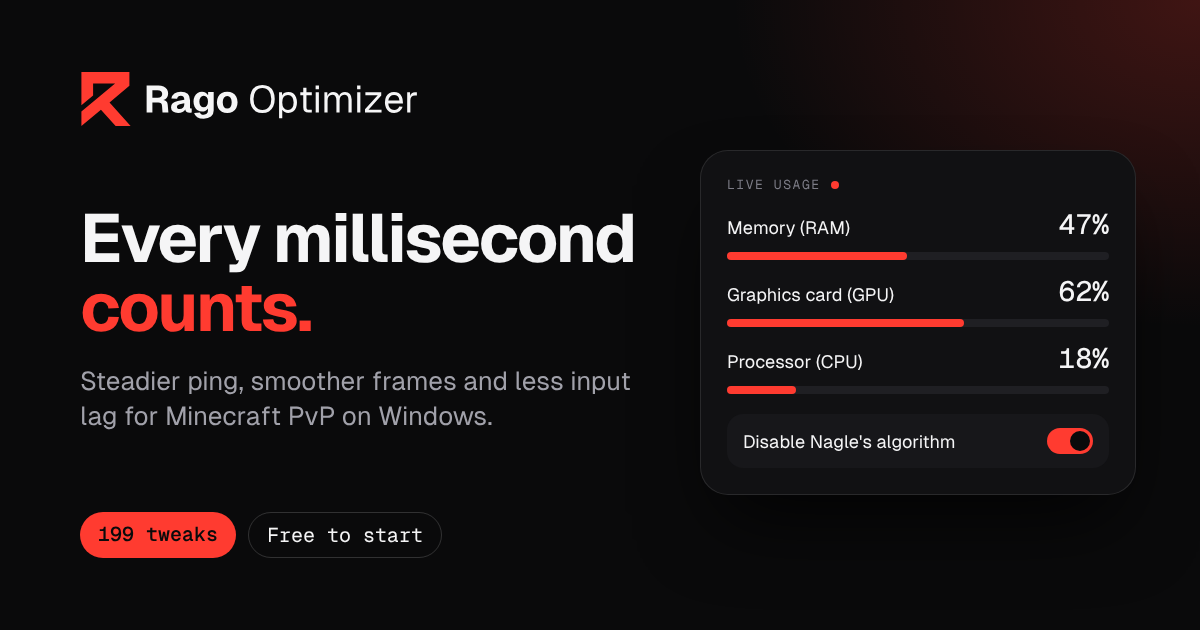
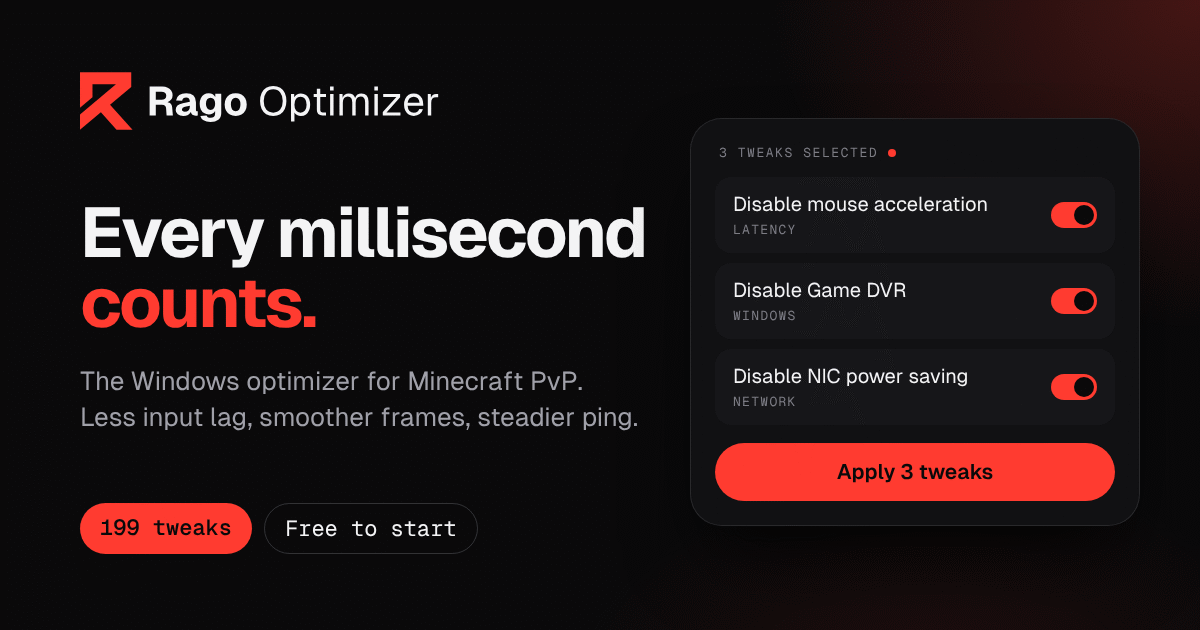
Aperçu des liens partagés et SEO : nouvelle image, balises de partage, pages légales indexables (#12)
- Image de partage refaite (1200 × 630, 84 Ko) : logo, « Every millisecond counts. », 199 tweaks (au lieu de 226),
  plus de chiffre de ping inventé. Son adresse change avec son contenu (?v=), ce qui force les plateformes à la recharger.
- Le compte à rebours a sa propre image (og-launch.png, rien d'autre que le nom) et ses balises de partage :
  les liens partagés avant samedi 15 h ont un aperçu. Il garde son noindex, qui disparaît seul au lancement.
- og:site_name, og:locale, twitter:title et twitter:description ; données structurées WebSite + Organization
  + SoftwareApplication (nom du site dans Google).
- Le h1 contient « Minecraft PvP optimizer for Windows » (même rendu au pixel près) ; meta description raccourcie.
- Pages légales : noindex retiré, canonical et description ajoutées ; sitemap avec les 4 pages ; robots.txt ne
  bloque plus 404.html (qui a déjà son noindex).

Claude-Session: https://claude.ai/code/session_01Cq39r4wcUmSp8qcxjjFND3

diff --git a/brand/tools/export-logo.js b/brand/tools/export-logo.js
@@ -25,10 +25,11 @@ const mono = "font-family:'Geist Mono',monospace";
 // nombre de réglages annoncé, comme l'app et le site : les jumeaux (même script, champ `twin`) comptent une fois
 const catalog = JSON.parse(fs.readFileSync(__dirname + '/../../app/src/data/catalog.json', 'utf8'));
 const TOTAL = new Set(catalog.modules.flatMap(m => m.sections.flatMap(s => s.tweaks.filter(t => t.id).map(t => t.twin || t.id)))).size;
-// jauge de l'image de partage (valeurs d'illustration, comme l'aperçu du site)
-const meter = (label, v) => `<div style="display:flex;flex-direction:column;gap:10px">
-        <div style="display:flex;justify-content:space-between;align-items:baseline;font-size:18px"><span>${label}</span><span style="${mono};font-size:28px;font-weight:500">${v}%</span></div>
-        <div style="height:8px;border-radius:999px;background:#1F1F23"><div style="width:${v}%;height:100%;border-radius:999px;background:#FF3B30"></div></div></div>`;
+// ligne de réglage de l'image de partage : vrais réglages Safe du catalogue, allumés comme dans l'aperçu du site
+const toggle = `<span style="flex:none;width:46px;height:26px;border-radius:999px;background:#FF3B30;position:relative"><i style="position:absolute;right:3px;top:3px;width:20px;height:20px;border-radius:999px;background:#0A0A0B"></i></span>`;
+const row = (name, section) => `<div style="display:flex;align-items:center;gap:16px;padding:15px 18px;border-radius:16px;background:#17171A">
+        <div style="flex:1"><div style="font-size:20px;line-height:1.2">${name}</div><div style="${mono};font-size:13px;letter-spacing:.1em;color:#7C7C86;margin-top:6px">${section}</div></div>${toggle}</div>`;
+const ring = (size, opacity) => `<i style="position:absolute;left:50%;top:50%;width:${size}px;height:${size}px;margin:-${size / 2}px 0 0 -${size / 2}px;border-radius:50%;border:2px solid rgba(255,59,48,${opacity})"></i>`;
 const html = [
   ['installer/sidebar.png', 164, 314, `<div style="width:164px;height:314px;background:radial-gradient(120% 60% at 85% 0%,rgba(255,59,48,.26),transparent 60%),#0A0A0B;${font};position:relative;overflow:hidden">
     <div style="position:absolute;left:22px;top:30px">${markInline(48)}</div>
@@ -36,31 +37,41 @@ const html = [
     <div style="position:absolute;left:22px;bottom:28px;font-size:11px;color:#A1A1AA">Every millisecond counts.</div></div>`],
   ['installer/header.png', 150, 57, `<div style="width:150px;height:57px;background:#FFFFFF;display:flex;align-items:center;justify-content:flex-end;padding-right:14px;box-sizing:border-box">
     <div style="width:36px;height:36px;border-radius:10px;background:#0A0A0B;display:flex;align-items:center;justify-content:center">${markInline(22)}</div></div>`],
-  ['web/og-image.png', 1200, 630, `<div style="width:1200px;height:630px;box-sizing:border-box;padding:72px 0 72px 80px;background:radial-gradient(60% 80% at 100% 0%,rgba(255,59,48,.22),transparent 65%),#0A0A0B;${font};position:relative;overflow:hidden;display:flex;flex-direction:column;justify-content:space-between">
-    <div>${sized(load('rago-wordmark-white.svg'), 340, Math.round(340 * 180 / 1124))}</div>
-    <div style="max-width:560px">
-      <div style="font-size:68px;font-weight:700;letter-spacing:-.035em;line-height:1.02">Every millisecond <span style="color:#FF3B30">counts.</span></div>
-      <div style="margin-top:22px;font-size:26px;color:#A1A1AA;line-height:1.35">Steadier ping, smoother frames and less input lag for Minecraft PvP on Windows.</div>
+  // Image de partage du site (Open Graph, 1200 × 630) : nom, promesse, chiffres vrais. Lisible réduite à 400 px (Discord).
+  ['web/og-image.png', 1200, 630, `<div style="width:1200px;height:630px;box-sizing:border-box;padding:72px 0 76px 80px;background:radial-gradient(55% 80% at 100% 0%,rgba(255,59,48,.24),transparent 65%),radial-gradient(45% 60% at 78% 115%,rgba(255,59,48,.10),transparent 70%),#0A0A0B;${font};position:relative;overflow:hidden;display:flex;flex-direction:column;justify-content:space-between">
+    <div>${sized(load('rago-wordmark-white.svg'), 360, Math.round(360 * 180 / 1124))}</div>
+    <div style="max-width:590px">
+      <div style="font-size:70px;font-weight:700;letter-spacing:-.04em;line-height:1">Every millisecond <span style="color:#FF3B30">counts.</span></div>
+      <div style="margin-top:26px;font-size:26px;color:#A1A1AA;line-height:1.38;white-space:nowrap">The Windows optimizer for Minecraft PvP.<br>Less input lag, smoother frames, steadier ping.</div>
     </div>
-    <div style="display:flex;gap:12px;${mono};font-size:20px">
-      <span style="padding:10px 18px;border-radius:999px;background:#FF3B30;color:#0A0A0B;font-weight:600">${TOTAL} tweaks</span>
-      <span style="padding:10px 18px;border-radius:999px;border:1px solid rgba(255,255,255,.16);color:#F5F5F6">Free to start</span>
+    <div style="display:flex;gap:12px;${mono};font-size:22px">
+      <span style="padding:11px 20px;border-radius:999px;background:#FF3B30;color:#0A0A0B;font-weight:600">${TOTAL} tweaks</span>
+      <span style="padding:11px 20px;border-radius:999px;border:1px solid rgba(255,255,255,.16);color:#F5F5F6">Free to start</span>
     </div>
-    <div style="position:absolute;right:64px;top:150px;width:436px;box-sizing:border-box;border-radius:28px;background:#111113;border:1px solid rgba(255,255,255,.10);box-shadow:0 40px 80px -20px rgba(0,0,0,.8);padding:26px;display:flex;flex-direction:column;gap:14px">
-      <div style="${mono};font-size:13px;letter-spacing:.12em;color:#7C7C86;display:flex;align-items:center;gap:10px">LIVE USAGE<i style="width:8px;height:8px;border-radius:999px;background:#FF3B30"></i></div>
-      ${meter('Memory (RAM)', 47)}${meter('Graphics card (GPU)', 62)}${meter('Processor (CPU)', 18)}
-      <div style="display:flex;justify-content:space-between;align-items:center;margin-top:6px;padding:14px 16px;border-radius:16px;background:#17171A;font-size:18px">Disable Nagle's algorithm<span style="width:46px;height:26px;border-radius:999px;background:#FF3B30;position:relative"><i style="position:absolute;right:3px;top:3px;width:20px;height:20px;border-radius:999px;background:#0A0A0B"></i></span></div>
+    <div style="position:absolute;right:60px;top:118px;width:450px;box-sizing:border-box;border-radius:32px;background:#111113;border:1px solid rgba(255,255,255,.10);box-shadow:0 40px 80px -20px rgba(0,0,0,.8);padding:24px;display:flex;flex-direction:column;gap:10px">
+      <div style="${mono};font-size:13px;letter-spacing:.12em;color:#7C7C86;display:flex;align-items:center;gap:10px;padding:2px 4px 6px">3 TWEAKS SELECTED<i style="width:8px;height:8px;border-radius:999px;background:#FF3B30"></i></div>
+      ${row('Disable mouse acceleration', 'LATENCY')}${row('Disable Game DVR', 'WINDOWS')}${row('Disable NIC power saving', 'NETWORK')}
+      <div style="margin-top:8px;height:58px;border-radius:999px;background:#FF3B30;color:#0A0A0B;font-weight:600;font-size:21px;display:flex;align-items:center;justify-content:center">Apply 3 tweaks</div>
     </div></div>`],
+  // Image de partage du compte à rebours (netlify/edge-functions/launch-gate/) : rien sur le produit au-delà du nom, comme la page.
+  ['web/og-launch.png', 1200, 630, `<div style="width:1200px;height:630px;box-sizing:border-box;background:radial-gradient(60% 75% at 50% -10%,rgba(255,59,48,.22),transparent 65%),#0A0A0B;${font};display:flex;flex-direction:column;align-items:center;justify-content:center;text-align:center;overflow:hidden">
+    <div style="position:relative;width:120px;height:132px;margin-bottom:84px">${ring(200, .5)}${ring(250, .26)}${ring(300, .12)}<div style="position:relative">${markInline(132)}</div></div>
+    <div style="font-size:76px;font-weight:700;letter-spacing:-.04em;line-height:1">Rago Optimizer</div>
+    <div style="margin-top:22px;font-size:34px;color:#A1A1AA;letter-spacing:-.01em">Every millisecond <span style="color:#FF3B30">counts.</span></div>
+  </div>`],
 ];
+// node tools/export-logo.js og-image og-launch : seulement les fichiers dont le nom contient un des mots donnés
+const only = process.argv.slice(2);
+const want = (out) => !only.length || only.some((o) => out.includes(o));
 (async () => {
   const b = await chromium.launch({ executablePath: process.env.PLAYWRIGHT_CHROMIUM || undefined, args: ['--disable-lcd-text', '--font-render-hinting=none'] });
   const p = await b.newPage();
-  for (const j of jobs) {
+  for (const j of jobs.filter((j) => want(j.out))) {
     await p.setViewportSize({ width: j.w, height: j.h });
     await p.setContent(`<html><body style="margin:0;background:transparent">${sized(load(j.src), j.w, j.h)}</body></html>`);
     await p.screenshot({ path: D + j.out, omitBackground: true, clip: { x: 0, y: 0, width: j.w, height: j.h } });
   }
-  for (const [out, w, h, body] of html) {
+  for (const [out, w, h, body] of html.filter(([out]) => want(out))) {
     await p.setViewportSize({ width: w, height: h });
     await p.setContent(`<html><head><style>${FACES}</style></head><body style="margin:0">${body}</body></html>`);
     await p.evaluate(async () => { await document.fonts.load('700 20px Geist'); await document.fonts.load('400 20px Geist'); await document.fonts.load('500 20px "Geist Mono"'); await document.fonts.ready; });

diff --git a/site/index.html b/site/index.html
@@ -5,23 +5,28 @@
 <meta name="viewport" content="width=device-width, initial-scale=1, viewport-fit=cover">
 <meta name="theme-color" content="#0A0A0B">
 <link rel="canonical" href="https://rago-optimizer.com/">
+<meta property="og:site_name" content="Rago Optimizer">
+<meta property="og:type" content="website">
+<meta property="og:locale" content="en_US">
+<meta property="og:url" content="https://rago-optimizer.com/">
 <meta property="og:title" content="Rago Optimizer: Minecraft PvP optimizer for Windows">
 <meta property="og:description" content="Every millisecond counts. The Minecraft PvP optimizer for Windows: nearly 200 tweaks, free to start, with a restore point offered before advanced tweaks.">
-<meta property="og:type" content="website">
-<meta property="og:url" content="https://rago-optimizer.com/">
-<meta property="og:image" content="https://rago-optimizer.com/og-image.png">
+<meta property="og:image" content="https://rago-optimizer.com/og-image.png?v=153045a26b">
+<meta property="og:image:type" content="image/png">
 <meta property="og:image:width" content="1200">
 <meta property="og:image:height" content="630">
-<meta property="og:image:alt" content="Rago Optimizer, the Minecraft PvP optimizer for Windows">
+<meta property="og:image:alt" content="Rago Optimizer, the Windows optimizer for Minecraft PvP. Every millisecond counts.">
 <meta name="twitter:card" content="summary_large_image">
-<meta name="twitter:image" content="https://rago-optimizer.com/og-image.png">
-<meta name="twitter:image:alt" content="Rago Optimizer, the Minecraft PvP optimizer for Windows">
+<meta name="twitter:title" content="Rago Optimizer: Minecraft PvP optimizer for Windows">
+<meta name="twitter:description" content="Every millisecond counts. The Minecraft PvP optimizer for Windows: nearly 200 tweaks, free to start, with a restore point offered before advanced tweaks.">
+<meta name="twitter:image" content="https://rago-optimizer.com/og-image.png?v=153045a26b">
+<meta name="twitter:image:alt" content="Rago Optimizer, the Windows optimizer for Minecraft PvP. Every millisecond counts.">
 <link rel="icon" href="favicon.svg" type="image/svg+xml">
 <link rel="icon" href="favicon.ico" sizes="any">
 <link rel="apple-touch-icon" href="apple-touch-icon.png">
-<script type="application/ld+json">{"@context": "https://schema.org", "@type": "SoftwareApplication", "name": "Rago Optimizer", "operatingSystem": "Windows 10, Windows 11", "applicationCategory": "UtilitiesApplication", "url": "https://rago-optimizer.com/", "image": "https://rago-optimizer.com/og-image.png", "description": "The Minecraft PvP optimizer for Windows: steadier ping, smoother frames, less input lag.", "offers": [{"@type": "Offer", "name": "Free", "price": "0", "priceCurrency": "USD"}, {"@type": "Offer", "name": "Premium monthly", "price": "5.99", "priceCurrency": "USD"}, {"@type": "Offer", "name": "Premium yearly", "price": "29.99", "priceCurrency": "USD"}]}</script>
+<script type="application/ld+json">{"@context": "https://schema.org", "@graph": [{"@type": "WebSite", "@id": "https://rago-optimizer.com/#website", "url": "https://rago-optimizer.com/", "name": "Rago Optimizer", "alternateName": "Rago", "inLanguage": "en", "publisher": {"@id": "https://rago-optimizer.com/#organization"}}, {"@type": "Organization", "@id": "https://rago-optimizer.com/#organization", "name": "Rago Optimizer", "url": "https://rago-optimizer.com/", "logo": "https://rago-optimizer.com/apple-touch-icon.png", "email": "support@rago-optimizer.com"}, {"@type": "SoftwareApplication", "name": "Rago Optimizer", "operatingSystem": "Windows 10, Windows 11", "applicationCategory": "UtilitiesApplication", "url": "https://rago-optimizer.com/", "image": "https://rago-optimizer.com/og-image.png?v=153045a26b", "publisher": {"@id": "https://rago-optimizer.com/#organization"}, "description": "The Minecraft PvP optimizer for Windows: steadier ping, smoother frames, less input lag.", "offers": [{"@type": "Offer", "name": "Free", "price": "0", "priceCurrency": "USD"}, {"@type": "Offer", "name": "Premium monthly", "price": "5.99", "priceCurrency": "USD"}, {"@type": "Offer", "name": "Premium yearly", "price": "29.99", "priceCurrency": "USD"}]}]}</script>
 <title>Rago Optimizer: Minecraft PvP optimizer for Windows</title>
-<meta name="description" content="Every millisecond counts. Rago tunes Windows, your network and Minecraft for steadier ping, smoother frames and less input lag. Turn a tweak off and Rago puts your settings back. A restore point is offered before advanced tweaks.">
+<meta name="description" content="Rago Optimizer tunes Windows, your network and Minecraft for steadier ping, smoother frames and less input lag. Nearly 200 tweaks, free to start.">
 <link rel="preload" href="fonts/Geist-Variable.woff2" as="font" type="font/woff2" crossorigin>
 <style>
 @font-face{font-family:"Geist";src:url("fonts/Geist-Variable.woff2") format("woff2");font-weight:100 900;font-display:swap}
@@ -99,7 +104,9 @@ section[id],main[id]{scroll-margin-top:92px}
 .orb.b{width:30vw;height:30vw;max-width:520px;max-height:520px;left:28vw;bottom:-16vw;background:radial-gradient(circle,rgba(255,59,48,.28),transparent 65%);animation:drift 22s ease-in-out infinite alternate-reverse}
 @keyframes drift{to{transform:translate(-6vw,5vw) scale(1.15)}}
 .hero .band{width:100%;display:grid;grid-template-columns:minmax(0,.85fr) minmax(0,1.15fr);gap:clamp(40px,6vw,110px);align-items:center}
-.hero h1{font-size:clamp(42px,5.2vw,84px);letter-spacing:-.05em;margin-block:22px 20px}
+/* The h1 holds the eyebrow (what Rago is, for search engines) and the tagline; it looks like the two separate lines it replaced */
+.hero h1{font:inherit;letter-spacing:normal}
+.hero .h1-t{display:block;font-weight:600;font-size:clamp(42px,5.2vw,84px);line-height:1.05;letter-spacing:-.05em;margin-block:22px 20px;text-wrap:balance}
 .hero h1 .w{display:inline-block;filter:blur(12px);opacity:0;transform:translateY(18px);animation:wordIn 1s var(--out) forwards}
 .hero h1 .red{color:var(--red)}
 @keyframes wordIn{to{filter:none;opacity:1;transform:none}}
@@ -655,8 +662,7 @@ footer.foot p{max-width:80ch}
     <div class="orb a" aria-hidden="true"></div><div class="orb b" aria-hidden="true"></div>
     <div class="band">
       <div>
-        <span class="eyebrow fade">Minecraft PvP optimizer for Windows</span>
-        <h1 id="h1">Every millisecond <span class="red">counts.</span></h1>
+        <h1><span class="eyebrow fade">Minecraft PvP optimizer for Windows</span> <span class="h1-t" id="h1">Every millisecond <span class="red">counts.</span></span></h1>
         <p class="lede fade d1">Steadier ping, smoother frames, less input lag. Rago tunes Windows, your network and Minecraft, and puts your settings back when you turn a tweak off.</p>
         <div class="cta-row fade d2">
           <a class="btn btn-red" href="#pricing">Get Premium<svg><use href="#i-arrow"/></svg></a>

diff --git a/site/src/page.html b/site/src/page.html
@@ -1,5 +1,5 @@
 <title>Rago Optimizer: Minecraft PvP optimizer for Windows</title>
-<meta name="description" content="Every millisecond counts. Rago tunes Windows, your network and Minecraft for steadier ping, smoother frames and less input lag. Turn a tweak off and Rago puts your settings back. A restore point is offered before advanced tweaks.">
+<meta name="description" content="Rago Optimizer tunes Windows, your network and Minecraft for steadier ping, smoother frames and less input lag. Nearly 200 tweaks, free to start.">
 <link rel="preconnect" href="https://fonts.googleapis.com">
 <link rel="preconnect" href="https://fonts.gstatic.com" crossorigin>
 <link rel="stylesheet" href="https://fonts.googleapis.com/css2?family=Geist:wght@400;500;600;700&family=Geist+Mono:wght@400;500&display=swap">
@@ -75,7 +75,9 @@ section[id],main[id]{scroll-margin-top:92px}
 .orb.b{width:30vw;height:30vw;max-width:520px;max-height:520px;left:28vw;bottom:-16vw;background:radial-gradient(circle,rgba(255,59,48,.28),transparent 65%);animation:drift 22s ease-in-out infinite alternate-reverse}
 @keyframes drift{to{transform:translate(-6vw,5vw) scale(1.15)}}
 .hero .band{width:100%;display:grid;grid-template-columns:minmax(0,.85fr) minmax(0,1.15fr);gap:clamp(40px,6vw,110px);align-items:center}
-.hero h1{font-size:clamp(42px,5.2vw,84px);letter-spacing:-.05em;margin-block:22px 20px}
+/* The h1 holds the eyebrow (what Rago is, for search engines) and the tagline; it looks like the two separate lines it replaced */
+.hero h1{font:inherit;letter-spacing:normal}
+.hero .h1-t{display:block;font-weight:600;font-size:clamp(42px,5.2vw,84px);line-height:1.05;letter-spacing:-.05em;margin-block:22px 20px;text-wrap:balance}
 .hero h1 .w{display:inline-block;filter:blur(12px);opacity:0;transform:translateY(18px);animation:wordIn 1s var(--out) forwards}
 .hero h1 .red{color:var(--red)}
 @keyframes wordIn{to{filter:none;opacity:1;transform:none}}
@@ -630,8 +632,7 @@ footer.foot p{max-width:80ch}
     <div class="orb a" aria-hidden="true"></div><div class="orb b" aria-hidden="true"></div>
     <div class="band">
       <div>
-        <span class="eyebrow fade">Minecraft PvP optimizer for Windows</span>
-        <h1 id="h1">Every millisecond <span class="red">counts.</span></h1>
+        <h1><span class="eyebrow fade">Minecraft PvP optimizer for Windows</span> <span class="h1-t" id="h1">Every millisecond <span class="red">counts.</span></span></h1>
         <p class="lede fade d1">Steadier ping, smoother frames, less input lag. Rago tunes Windows, your network and Minecraft, and puts your settings back when you turn a tweak off.</p>
         <div class="cta-row fade d2">
           <a class="btn btn-red" href="#pricing">Get Premium<svg><use href="#i-arrow"/></svg></a>

diff --git a/netlify/edge-functions/launch-gate/countdown.js b/netlify/edge-functions/launch-gate/countdown.js
@@ -1,11 +1,12 @@
 // The page every visitor sees before the launch. Self-contained: inline styles and script, plus the logo,
-// icons and fonts that launch-gate.js lets through. It says nothing about the product beyond its name.
+// icons, fonts and share image (og-launch.png) that launch-gate.js lets through. It says nothing about the product beyond its name.
 // When the clock reaches zero the page reloads, and the gate then serves the site.
 
 const esc = (s) => String(s).replace(/&/g, "&amp;").replace(/</g, "&lt;").replace(/>/g, "&gt;").replace(/"/g, "&quot;");
 const pad = (n) => String(n).padStart(2, "0");
 
-export function countdownPage({ launchAt, now }) {
+// origin: the address the page was asked on (the domain, or a deploy preview), for the absolute share image URL.
+export function countdownPage({ launchAt, now, origin = "https://rago-optimizer.com" }) {
   const when = new Intl.DateTimeFormat("en-US", {
     timeZone: "Europe/Paris", weekday: "long", month: "long", day: "numeric", hour: "numeric", minute: "2-digit",
   }).format(launchAt);
@@ -26,9 +27,17 @@ export function countdownPage({ launchAt, now }) {
 <meta name="robots" content="noindex">
 <title>Rago Optimizer opens ${esc(day)}</title>
 <meta name="description" content="Rago Optimizer opens on ${esc(when)}, Paris time.">
+<meta property="og:site_name" content="Rago Optimizer">
 <meta property="og:title" content="Rago Optimizer opens ${esc(day)}">
 <meta property="og:description" content="Every millisecond counts. Opens on ${esc(when)}, Paris time.">
 <meta property="og:type" content="website">
+<meta property="og:url" content="${esc(origin)}/">
+<meta property="og:image" content="${esc(origin)}/og-launch.png">
+<meta property="og:image:type" content="image/png">
+<meta property="og:image:width" content="1200">
+<meta property="og:image:height" content="630">
+<meta property="og:image:alt" content="Rago Optimizer. Every millisecond counts.">
+<meta name="twitter:card" content="summary_large_image">
 <link rel="icon" href="/favicon.svg" type="image/svg+xml">
 <link rel="icon" href="/favicon.ico" sizes="any">
 <link rel="apple-touch-icon" href="/apple-touch-icon.png">

diff --git a/netlify/edge-functions/launch-gate/launch-gate.js b/netlify/edge-functions/launch-gate/launch-gate.js
@@ -11,9 +11,10 @@ const COOKIE_MAX_AGE = 30 * 86400;
 const MIN_KEY_LENGTH = 16; // a shorter PREVIEW_KEY is ignored: nobody gets past the countdown
 const DOMAIN = "rago-optimizer.com";
 const OLD_HOST = "rago-optimiser.netlify.app";
-// The countdown's own files (logo, icons, fonts). Everything else waits for the launch.
+// The countdown's own files (logo, icons, fonts, share image). Everything else waits for the launch.
+// The countdown answers "noindex": search engines index the site only once it's open (nothing to do at the launch).
 const PUBLIC_FILES = new Set([
-  "/favicon.svg", "/favicon.ico", "/favicon-32.png", "/apple-touch-icon.png", "/rago-wordmark.svg", "/robots.txt",
+  "/favicon.svg", "/favicon.ico", "/favicon-32.png", "/apple-touch-icon.png", "/rago-wordmark.svg", "/robots.txt", "/og-launch.png",
   "/fonts/Geist-Variable.woff2", "/fonts/GeistMono-Variable.woff2",
 ]);
 const SECURITY_HEADERS = {
@@ -96,7 +97,7 @@ export default async function launchGate(request, context) {
     return context.next();
   }
 
-  return new Response(request.method === "HEAD" ? null : countdownPage({ launchAt, now }), {
+  return new Response(request.method === "HEAD" ? null : countdownPage({ launchAt, now, origin: url.origin }), {
     status: 200,
     headers: {
       "Content-Type": "text/html; charset=utf-8",

diff --git a/site/refunds.html b/site/refunds.html
@@ -4,7 +4,8 @@
 <meta charset="utf-8">
 <meta name="viewport" content="width=device-width, initial-scale=1">
 <meta name="theme-color" content="#0A0A0B">
-<meta name="robots" content="noindex">
+<meta name="description" content="How to cancel a Rago Optimizer Premium subscription, when you can get a refund and what it does to your license.">
+<link rel="canonical" href="https://rago-optimizer.com/refunds.html">
 <title>Refunds and Cancellation · Rago Optimizer</title>
 <link rel="icon" href="favicon.svg" type="image/svg+xml">
 <link rel="icon" href="favicon.ico" sizes="any">

diff --git a/site/privacy.html b/site/privacy.html
@@ -4,7 +4,8 @@
 <meta charset="utf-8">
 <meta name="viewport" content="width=device-width, initial-scale=1">
 <meta name="theme-color" content="#0A0A0B">
-<meta name="robots" content="noindex">
+<meta name="description" content="What Rago Optimizer and its account server collect, why, who processes it, how long it is kept and how to delete it.">
+<link rel="canonical" href="https://rago-optimizer.com/privacy.html">
 <title>Privacy Policy · Rago Optimizer</title>
 <link rel="icon" href="favicon.svg" type="image/svg+xml">
 <link rel="icon" href="favicon.ico" sizes="any">

diff --git a/site/terms.html b/site/terms.html
@@ -4,7 +4,8 @@
 <meta charset="utf-8">
 <meta name="viewport" content="width=device-width, initial-scale=1">
 <meta name="theme-color" content="#0A0A0B">
-<meta name="robots" content="noindex">
+<meta name="description" content="Terms of sale for Rago Optimizer: the Free and Premium plans, prices, your one-PC license, renewal and cancellation.">
+<link rel="canonical" href="https://rago-optimizer.com/terms.html">
 <title>Terms of Sale · Rago Optimizer</title>
 <link rel="icon" href="favicon.svg" type="image/svg+xml">
 <link rel="icon" href="favicon.ico" sizes="any">

diff --git a/site/tools/build.py b/site/tools/build.py
@@ -44,37 +44,54 @@ try:
     s = s.replace('<div class="faq rv" id="faqs"></div>', '<div class="faq rv" id="faqs"></div>\n    <noscript><div class="faq">' + static + '</div></noscript>', 1)
 except (OSError, subprocess.CalledProcessError) as e:
     print('warning: static FAQ skipped (node not available):', e)
-LD = json.dumps({"@context": "https://schema.org", "@type": "SoftwareApplication", "name": "Rago Optimizer",
-  "operatingSystem": "Windows 10, Windows 11", "applicationCategory": "UtilitiesApplication", "url": SITE + "/",
-  "image": SITE + "/og-image.png", "description": "The Minecraft PvP optimizer for Windows: steadier ping, smoother frames, less input lag.",
-  "offers": [{"@type": "Offer", "name": "Free", "price": "0", "priceCurrency": ISO},
-             {"@type": "Offer", "name": "Premium monthly", "price": f"{PM:.2f}", "priceCurrency": ISO},
-             {"@type": "Offer", "name": "Premium yearly", "price": f"{PY:.2f}", "priceCurrency": ISO}]})
+# Share image: its address changes with its content, so Discord, WhatsApp and social networks fetch the new one
+import hashlib
+OG = f"{SITE}/og-image.png?v={hashlib.sha256(open(os.path.join(ROOT, 'og-image.png'), 'rb').read()).hexdigest()[:10]}"
+# Structured data, only for what the page shows: the site's name (for Google's site name), who runs it, the app and its plans
+ORG = SITE + "/#organization"
+LD = json.dumps({"@context": "https://schema.org", "@graph": [
+  {"@type": "WebSite", "@id": SITE + "/#website", "url": SITE + "/", "name": "Rago Optimizer", "alternateName": "Rago",
+   "inLanguage": "en", "publisher": {"@id": ORG}},
+  {"@type": "Organization", "@id": ORG, "name": "Rago Optimizer", "url": SITE + "/", "logo": SITE + "/apple-touch-icon.png",
+   "email": "support@rago-optimizer.com"},
+  {"@type": "SoftwareApplication", "name": "Rago Optimizer", "operatingSystem": "Windows 10, Windows 11",
+   "applicationCategory": "UtilitiesApplication", "url": SITE + "/", "image": OG, "publisher": {"@id": ORG},
+   "description": "The Minecraft PvP optimizer for Windows: steadier ping, smoother frames, less input lag.",
+   "offers": [{"@type": "Offer", "name": "Free", "price": "0", "priceCurrency": ISO},
+              {"@type": "Offer", "name": "Premium monthly", "price": f"{PM:.2f}", "priceCurrency": ISO},
+              {"@type": "Offer", "name": "Premium yearly", "price": f"{PY:.2f}", "priceCurrency": ISO}]}]})
 
 i = s.index('</style>', s.index('<style>\n/* Layout')) + len('</style>')
-head = '''<!doctype html>
+head = ('''<!doctype html>
 <html lang="en">
 <head>
 <meta charset="utf-8">
 <meta name="viewport" content="width=device-width, initial-scale=1, viewport-fit=cover">
 <meta name="theme-color" content="#0A0A0B">
 <link rel="canonical" href="{SITE}/">
-<meta property="og:title" content="Rago Optimizer: Minecraft PvP optimizer for Windows">
-<meta property="og:description" content="Every millisecond counts. The Minecraft PvP optimizer for Windows: {TOTAL}, free to start, with a restore point offered before advanced tweaks.">
+<meta property="og:site_name" content="Rago Optimizer">
 <meta property="og:type" content="website">
+<meta property="og:locale" content="en_US">
 <meta property="og:url" content="{SITE}/">
-<meta property="og:image" content="{SITE}/og-image.png">
+<meta property="og:title" content="{TITLE}">
+<meta property="og:description" content="{OGDESC}">
+<meta property="og:image" content="{OG}">
+<meta property="og:image:type" content="image/png">
 <meta property="og:image:width" content="1200">
 <meta property="og:image:height" content="630">
-<meta property="og:image:alt" content="Rago Optimizer, the Minecraft PvP optimizer for Windows">
+<meta property="og:image:alt" content="{ALT}">
 <meta name="twitter:card" content="summary_large_image">
-<meta name="twitter:image" content="{SITE}/og-image.png">
-<meta name="twitter:image:alt" content="Rago Optimizer, the Minecraft PvP optimizer for Windows">
+<meta name="twitter:title" content="{TITLE}">
+<meta name="twitter:description" content="{OGDESC}">
+<meta name="twitter:image" content="{OG}">
+<meta name="twitter:image:alt" content="{ALT}">
 <link rel="icon" href="favicon.svg" type="image/svg+xml">
 <link rel="icon" href="favicon.ico" sizes="any">
 <link rel="apple-touch-icon" href="apple-touch-icon.png">
 <script type="application/ld+json">{LD}</script>
-'''.replace('{SITE}', SITE).replace('{LD}', LD).replace('{TOTAL}', re.search(r'<h2>((?:Nearly )?\d+ tweaks)\. One clear app\.</h2>', s).group(1).lower())
+'''.replace('{OGDESC}', 'Every millisecond counts. The Minecraft PvP optimizer for Windows: {TOTAL}, free to start, with a restore point offered before advanced tweaks.')
+        .replace('{TITLE}', re.search(r'<title>([^<]+)</title>', s).group(1)).replace('{ALT}', 'Rago Optimizer, the Windows optimizer for Minecraft PvP. Every millisecond counts.')
+        .replace('{SITE}', SITE).replace('{OG}', OG).replace('{LD}', LD).replace('{TOTAL}', re.search(r'<h2>((?:Nearly )?\d+ tweaks)\. One clear app\.</h2>', s).group(1).lower()))
 OUT = os.path.join(ROOT, 'index.html')
 page = head + s[:i] + '\n</head>\n<body>\n' + s[i:].lstrip('\n') + '\n</body>\n</html>\n'
 open(OUT, 'w').write(page)

diff --git a/site/tools/make_legal.py b/site/tools/make_legal.py
@@ -2,13 +2,14 @@ import os
 OUT=os.path.join(os.path.dirname(os.path.abspath(__file__)),'..')
 # Builds site/terms.html, privacy.html, refunds.html (and 404.html, which shares their header).
 MAIL='<a href="mailto:support@rago-optimizer.com">support@rago-optimizer.com</a>'; UPD="October 9, 2026"
+SITE='https://rago-optimizer.com'  # same as build.py
 HEAD='''<!doctype html>
 <html lang="en">
 <head>
 <meta charset="utf-8">
 <meta name="viewport" content="width=device-width, initial-scale=1">
 <meta name="theme-color" content="#0A0A0B">
-<meta name="robots" content="noindex">
+{meta}
 <title>{title} · Rago Optimizer</title>
 <link rel="icon" href="favicon.svg" type="image/svg+xml">
 <link rel="icon" href="favicon.ico" sizes="any">
@@ -53,10 +54,12 @@ FOOT='''<div class="foot"><a href="terms.html">Terms of Sale</a><a href="privacy
 </body>
 </html>
 '''
-def page(name,title,body):
-    open(os.path.join(OUT,name),'w').write(HEAD.format(title=title,upd=UPD)+body+FOOT)
+# The legal pages are public and indexable (linked from every footer); the 404 page isn't.
+def page(name,title,desc,body):
+    meta=f'<meta name="description" content="{desc}">\n<link rel="canonical" href="{SITE}/{name}">'
+    open(os.path.join(OUT,name),'w').write(HEAD.format(title=title,upd=UPD,meta=meta)+body+FOOT)
 
-page('terms.html','Terms of Sale',f'''
+page('terms.html','Terms of Sale','Terms of sale for Rago Optimizer: the Free and Premium plans, prices, your one-PC license, renewal and cancellation.',f'''
 <h2>1. Who we are</h2>
 <p>Rago Optimizer is an independent project, run and sold from France by the Rago Optimizer team. Contact: {MAIL}, or our Discord server.</p>
 <p>This site is hosted by Netlify, Inc., 101 2nd Street, San Francisco, CA 94105, USA. Account pages and the license server are hosted by Railway Corporation, San Francisco, CA, USA.</p>
@@ -105,7 +108,7 @@ page('terms.html','Terms of Sale',f'''
 <p>We may update these terms. The version accepted at checkout applies to that purchase. These terms are governed by French law, which doesn't take away the protection the mandatory consumer law of your country gives you. If a dispute isn't solved with our support, you can also use the mediation services and the courts of your own country.</p>
 ''')
 
-page('refunds.html','Refunds and Cancellation',f'''
+page('refunds.html','Refunds and Cancellation','How to cancel a Rago Optimizer Premium subscription, when you can get a refund and what it does to your license.',f'''
 <h2>Cancel anytime</h2>
 <p>Cancel from your account page (Cancel or manage subscription). You keep Premium until the end of the period you already paid for, then the app goes back to free mode. Nothing else is charged.</p>
 
@@ -130,7 +133,7 @@ page('refunds.html','Refunds and Cancellation',f'''
 <p>{MAIL}, or our Discord server. Include the email of your Rago account.</p>
 ''')
 
-page('privacy.html','Privacy Policy',f'''
+page('privacy.html','Privacy Policy','What Rago Optimizer and its account server collect, why, who processes it, how long it is kept and how to delete it.',f'''
 <h2>Who is responsible</h2>
 <p>The Rago Optimizer team, in France, is responsible for your data. Contact: {MAIL}.</p>
 
@@ -188,7 +191,7 @@ page('privacy.html','Privacy Policy',f'''
 print('ok')
 
 # 404: Netlify serves it for any unknown path, so every link is absolute
-nf=HEAD.format(title='Page not found',upd='').replace('href="','href="/').replace('src="','src="/').replace('url("fonts/','url("/fonts/').replace('href="/https:','href="https:')
+nf=HEAD.format(title='Page not found',upd='',meta='<meta name="robots" content="noindex">').replace('href="','href="/').replace('src="','src="/').replace('url("fonts/','url("/fonts/').replace('href="/https:','href="https:')
 nf=nf.split('<h1>')[0]+'<h1>This page doesn\'t exist.</h1>\n<p class="upd">Error 404</p>\n<p>The link may be old or mistyped.</p>\n<p style="margin-top:28px;display:flex;gap:10px;flex-wrap:wrap"><a class="back" href="/" style="color:#0A0A0B;background:#FF3B30;box-shadow:none;font-weight:600;text-decoration:none;padding:10px 18px;border-radius:999px">Back to Rago Optimizer</a><a class="back" href="/#pricing" style="text-decoration:none;padding:10px 18px;border-radius:999px">See pricing</a></p>\n'+FOOT.replace('href="','href="/').replace('href="/./"','href="/"')
 nf=nf.replace('href="/./"','href="/"')
 open(os.path.join(OUT,'404.html'),'w').write(nf)

diff --git a/brand/README.md b/brand/README.md
@@ -7,7 +7,7 @@ Charte complète : `charte.html` (ouvrir dans un navigateur). Ce fichier est le 
 ## Logo (v1.2, 6 octobre 2026 : logo de Sofiene vectorisé, nom « Rago Optimizer »)
 - Source vectorielle unique : `logo/rago-mark.svg` (R rouge #FF3B30, viewBox 164 × 180). Tout le reste se régénère avec `tools/export-logo.js`.
 - Installeur NSIS : `logo/installer/sidebar.bmp` (164 × 314) et `header.bmp` (150 × 57), BMP 24 bits.
-- Site : `logo/web/favicon.ico` (16/32/48), `favicon.svg`, `favicon-32.png`, `apple-touch-icon.png` (180), `og-image.png` (1200 × 630).
+- Site : `logo/web/favicon.ico` (16/32/48), `favicon.svg`, `favicon-32.png`, `apple-touch-icon.png` (180), `og-image.png` (1200 × 630, l'aperçu des liens partagés : Discord, WhatsApp, réseaux) et `og-launch.png` (même format, celui du compte à rebours, qui ne montre que le nom).
 - Logo principal « Rago Optimizer » (texte vectorisé en Geist) : `logo/rago-wordmark-white.svg` (fond sombre) ou `logo/rago-wordmark-ink.svg` (fond clair).
 - Icône d'app (barre des tâches, .exe, .ico, PNG `png/rago-icon-*`) : `logo/rago-app-icon.svg`, **R rouge sur fond transparent, sans tuile** (demande de Sofiene, 6 oct.).
 - Tuile sombre conservée pour les endroits qui exigent un fond opaque : `logo/rago-app-tile.svg` → `web/apple-touch-icon.png`, `png/rago-tile-512.png` (avatar Discord, réseaux).
@@ -53,5 +53,8 @@ convert png/rago-icon-{16,20,24,32,40,48,64,128,256}.png rago.ico
 convert png/rago-icon-{16,32,48}.png web/favicon.ico
 cp rago-favicon.svg web/favicon.svg
 for n in sidebar header; do convert installer/$n.png -alpha off -type TrueColor BMP3:installer/$n.bmp; done
+for n in og-image og-launch; do convert web/$n.png -dither FloydSteinberg -colors 256 -define png:compression-level=9 PNG8:web/$n.png; done   # ~85 et ~45 Ko au lieu de ~125
 ```
+`node tools/export-logo.js og-image og-launch` ne refait que les fichiers dont le nom contient ces mots.
+Ensuite, copier `logo/web/og-image.png` et `og-launch.png` dans `site/` puis relancer `python3 site/tools/build.py` : l'adresse de l'image dans le HTML change avec son contenu (`?v=`), ce qui force Discord, WhatsApp et les réseaux à la recharger.
 Ensuite, copier `brand/logo/installer/*.bmp` dans `app/src-tauri/installer/` (chemins depuis la racine du dépôt).
